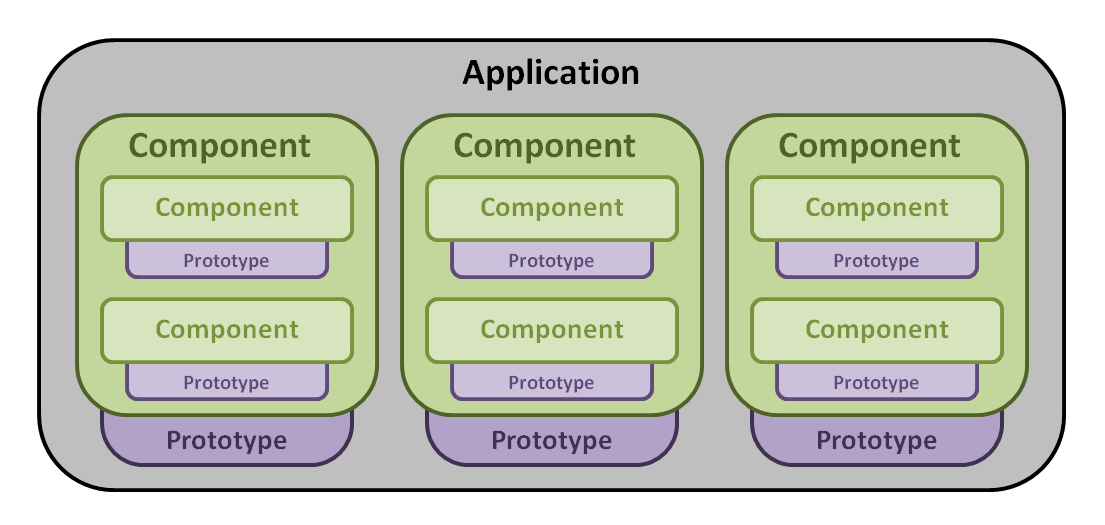
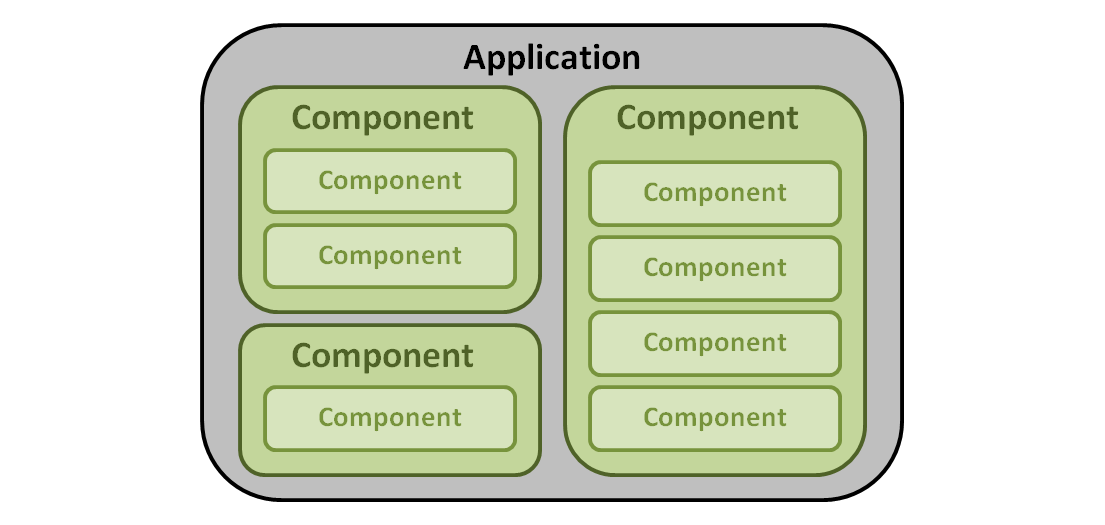
Updating architecture documentation section.
git-svn-id: http://svn.virtualworldframework.com/vwf/development@2322 775f9103-8eee-4f94-88be-65e0ca6d8b75

diff --git a/public/web/docs/architecture.md b/public/web/docs/architecture.md
@@ -17,17 +17,19 @@ The Virtual World Framework is a model - view based architecture. Views exist fo
 
 <div style='width:100%;text-align:center'><img src='images/arch1.png' alt='arch' width='512' /></div>
 
-A client's browser may have multiple views. For example, a user may see and renderer view and an editor view in their browser window. The renderer view shows a 3D visualization of the model state, and the editor view shows the hierachy of the scene and the pieces that make it up such as it's properties and children.
-
 The single model, or shared state, of the application has multiple copies that represent the shared simulation. 
 
 <div style='width:100%;text-align:center'><img src='images/arch2.png' alt='arch' width='512' /></div>
 
-Each client then has their own replicated model that they take with them. The model, however, remains the same as the one that every other user is viewing. The application then is a state machine. The same state machine is in different locations (different clients). If the state machines all have the same properties and children, they will all move to the same successive state.
+Each client then has their own replicated model that they take with them. The model, however, remains the same as the one that every other user is viewing. All clients show the same state with each having an indentical copy of the application. The applications are separately but simultaneously updated to retain identical states. 
+
+The application then is a state machine. The same state machine is in different locations (different clients). If the state machines all have the same properties and children, they will all move to the same successive state.
+
+A client's browser may have multiple views. For example, a user may see and renderer view and an editor view in their browser window. The renderer view shows a 3D visualization of the model state, and the editor view shows the hierachy of the scene and the pieces that make it up such as it's properties and children.
 
 <div style='width:100%;text-align:center'><img src='images/arch3.png' alt='arch' width='512' /></div>
 
-External inputs from one user get thrown "across the moat" into the "shared simulation." The model deflects incoming input from a view, and sends it directly to the reflector. The reflector can then send out the information to all of the replicated models. Thus all inputs to a model happen identically on the timeline to all clients within the application. 
+External inputs from one user get thrown "across the moat" into the shared simulation (model) [1]. The model deflects incoming input from a view, and sends it directly to the reflector [2]. The reflector can then send out the information to all of the replicated models [3]. Thus all inputs to a model happen identically on the timeline to all clients within the application. 
 
 <div style='width:100%;text-align:center'><img src='images/arch4.png' alt='arch' width='512' /></div>
 
@@ -37,13 +39,17 @@ The architecture separates external input from internal input. All external inpu
 
 **Component Structure**
 
-A VWF application is made up of components. Each component in the system is built up from smaller components or prototypes within the user's programming space. The [components](components.html) section provides further detail about creating application components, and the [prototypes](prototypes.html) page describes the VWF base types. 
+A VWF application is made up of components. Each component in the system is built up from smaller components (i.e. children) or through inheritance (i.e. prototypes) within the user's programming space. 
+
+The application is essentially a component itself, and can have one or more child components. Each child component can then have one or more children, creating a tree structure.
 
 <div style='width:100%;text-align:center'><img src='images/arch5.png' alt='arch' width='600' /></div>
 
-Components can interact with one another via scripts in the application. The use of parent and children keywords such as *this.parent*, *this.children*, *this.parent.children*, and so on can be used to trace through the hierarchy. 
+Additionally, components may extend prototype components, and will inherit their properties, methods, and events. A prototype may have multiple components that extend it in an application.
 
 <div style='width:100%;text-align:center'><img src='images/arch6.png' alt='arch' width='600' /></div>
+
+The [components](components.html) section provides further detail about creating application components, and the [prototypes](prototypes.html) page describes the VWF base types. 
 
 -------------------
 
